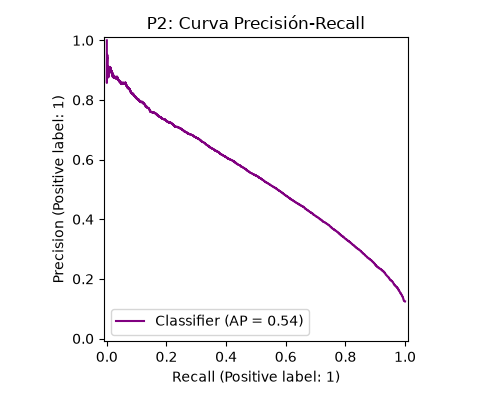
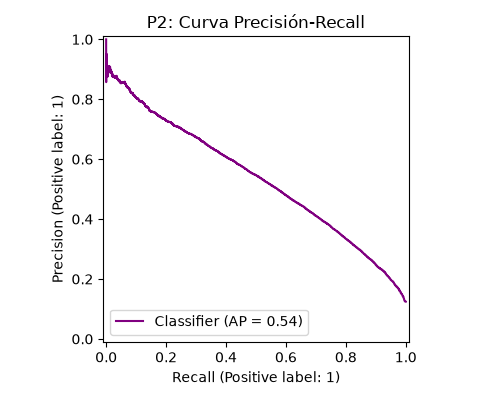
fix(p2): improve model selection, test evaluation and artifacts

diff --git a/mibici/modeling/search_p2.py b/mibici/modeling/search_p2.py
@@ -33,6 +33,7 @@ def ejecutar_busqueda_p2():
 
         mejor_val_f1 = -1.0
         mejor_cfg = None
+        mejor_run_id = None
 
         for cfg in configuraciones:
             run_name_hijo = f"P2_LR_C{cfg['C']}_{cfg['solver']}"
@@ -43,10 +44,12 @@ def ejecutar_busqueda_p2():
                     solver=cfg["solver"],
                     penalty=cfg["penalty"],
                     stage_of_work="candidate",
+                    evaluar_test=False,
                 )
                 if val_f1 is not None and val_f1 > mejor_val_f1:
                     mejor_val_f1 = val_f1
                     mejor_cfg = cfg
+                    mejor_run_id = mlflow.active_run().info.run_id
 
         mlflow.log_metric("best_val_f1_macro", mejor_val_f1)
         if mejor_cfg:
@@ -54,18 +57,80 @@ def ejecutar_busqueda_p2():
             mlflow.log_param("best_solver", mejor_cfg["solver"])
             print(f"Best config found: C={mejor_cfg['C']} (Val F1: {mejor_val_f1:.4f})")
 
-    # Promoción del mejor modelo al Model Registry
+    # ---------------------------------------------------------
+    # Evaluación final y registro del modelo ganador
+    # ---------------------------------------------------------
+
+    if mejor_cfg is None:
+        raise RuntimeError(
+            "No se encontró una configuración válida para P2."
+        )
+
+    print("\nEvaluación final del mejor modelo P2")
+    print(
+        f"Mejor configuración: C={mejor_cfg['C']}, "
+        f"solver={mejor_cfg['solver']}, "
+        f"penalty={mejor_cfg['penalty']}"
+    )
+
+    # Ejecutar únicamente el modelo ganador sobre Test
+    with mlflow.start_run(run_name="P2_Champion_Final") as final_run:
+
+        p2_clasificacion(
+            modelo_tipo="logistic_regression",
+            c_param=mejor_cfg["C"],
+            solver=mejor_cfg["solver"],
+            penalty=mejor_cfg["penalty"],
+            stage_of_work="final",
+            evaluar_test=True,
+        )
+
+        final_run_id = final_run.info.run_id
+
+    # ---------------------------------------------------------
+    # Promoción del modelo ganador al Model Registry
+    # ---------------------------------------------------------
+
     client = mlflow.tracking.MlflowClient()
     model_name = "mibici-equipo36-p2-riesgo"
-    try:
-        latest_versions = client.get_latest_versions(model_name)
-        if latest_versions:
-            best_ver = latest_versions[-1].version
-            client.set_registered_model_alias(name=model_name, alias="champion", version=best_ver)
-            print(f"Modelo '{model_name}' versión {best_ver} promovido al alias 'champion' (Producción)")
-    except Exception as e:
-        print(f"Nota sobre Model Registry: {e}")
 
+    try:
+        versions = client.search_model_versions(
+            f"name='{model_name}'"
+        )
+
+        best_version = next(
+            (
+                version
+                for version in versions
+                if version.run_id == final_run_id
+            ),
+            None,
+        )
+
+        if best_version is None:
+            raise RuntimeError(
+                "No se encontró la versión registrada "
+                f"para el run_id {final_run_id}."
+            )
+
+        client.set_registered_model_alias(
+            name=model_name,
+            alias="champion",
+            version=best_version.version,
+        )
+
+        print(
+            f"\nChampion P2 registrado correctamente:\n"
+            f"Modelo: {model_name}\n"
+            f"Versión: {best_version.version}\n"
+            f"Run ID: {final_run_id}\n"
+            f"F1-macro validación: {mejor_val_f1:.4f}"
+        )
+
+    except Exception as e:
+        print(f"ERROR al promover el Champion P2: {e}")
+        raise
 
 if __name__ == "__main__":
     ejecutar_busqueda_p2()

diff --git a/mibici/modeling/train_p2.py b/mibici/modeling/train_p2.py
@@ -88,6 +88,7 @@ def p2_clasificacion(
     solver="lbfgs",
     penalty="l2",
     stage_of_work="candidate",
+    evaluar_test=True,
 ):
     """Función unificada compatible con CLI de run_project y MLproject."""
     mlflow_uri = os.getenv("MLFLOW_TRACKING_URI", "http://localhost:5000")
@@ -168,6 +169,14 @@ def p2_clasificacion(
         y_pred_val = modelo.predict(X_val)
         val_f1 = f1_score(y_val, y_pred_val, average="macro")
         mlflow.log_metric("val_f1_macro", val_f1)
+        # Durante la búsqueda no utilizar el conjunto Test
+        if not evaluar_test:
+            print(
+                f"Candidato P2 evaluado en validación: "
+                f"C={c_param}, solver={solver}, "
+                f"val_f1_macro={val_f1:.4f}"
+            )
+            return val_f1
 
         # Prueba
         y_pred_test = modelo.predict(X_test)
